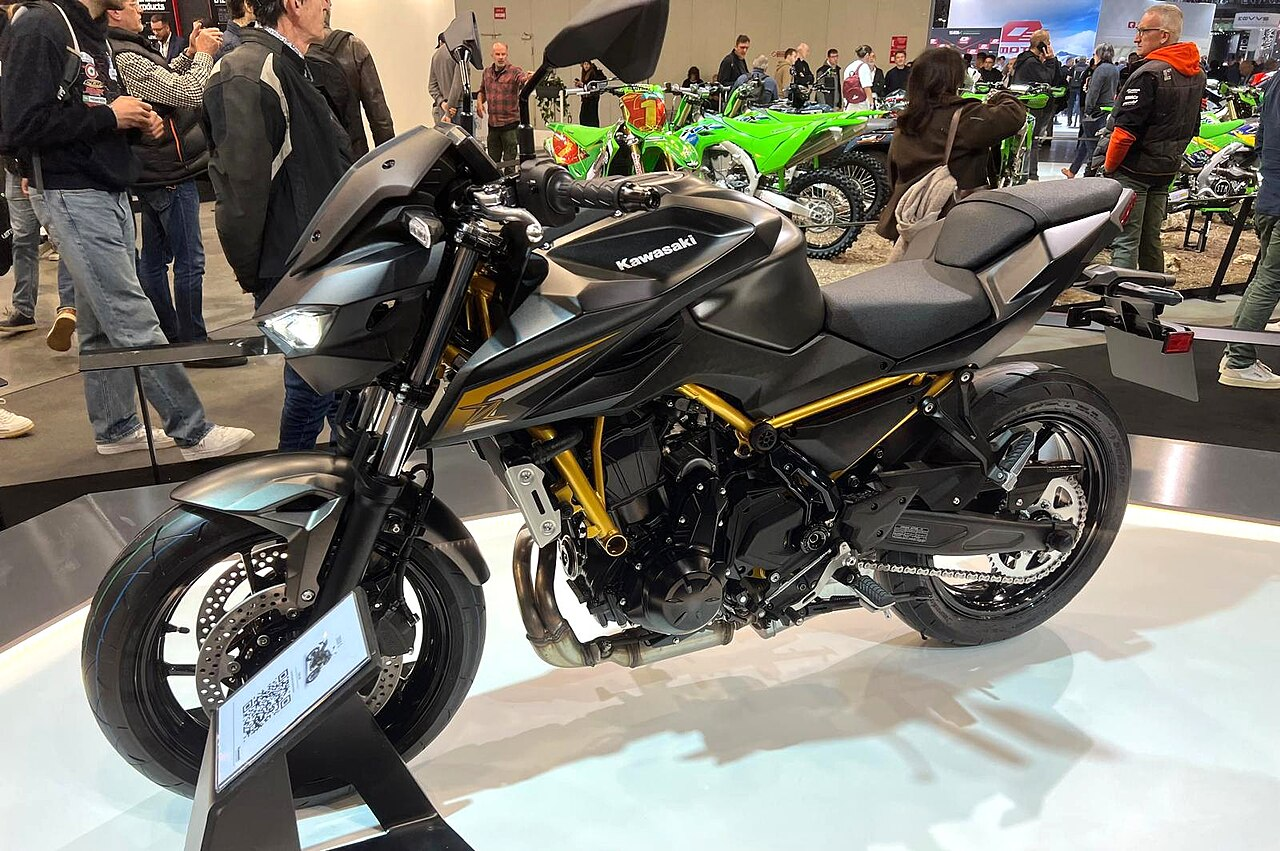
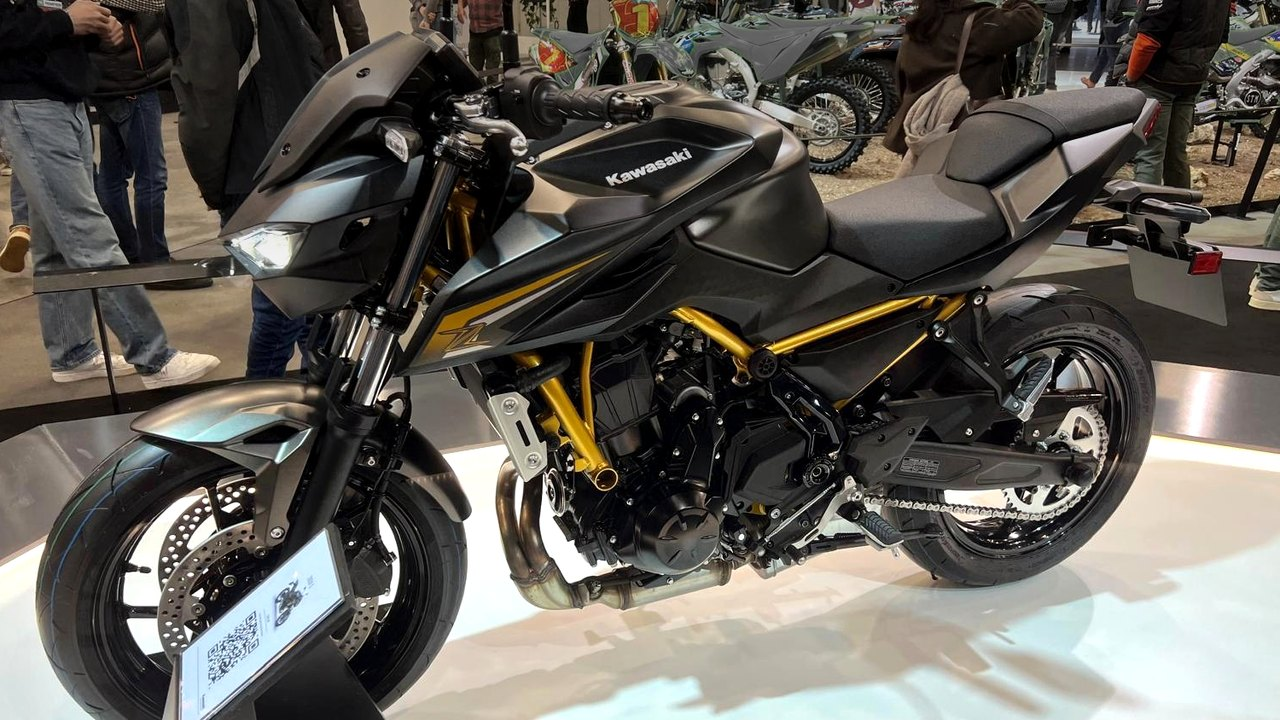
feat: foto piu' belle per Stelvio e Z650S
- Stelvio: nuova foto (Motor Verso, CC BY 2.0), grigia con pinze rosse,
  ritagliata 16:9.
- Z650S: inquadratura piu' stretta e sfondo della fiera attenuato.
- Crediti aggiornati in pagina e nel README.

diff --git a/index.html b/index.html
@@ -245,7 +245,7 @@ details.year > summary { padding: 13px 4px; flex-wrap: wrap; }
       <li><strong>Debito residuo</strong>: il capitale ancora da restituire, cioè la base di un'eventuale estinzione anticipata (spese escluse).</li>
       <li>Stelvio: gli interessi usano il tasso implicito nella rata di contratto (378,82 € su 96 mesi, TAN 8,01% arrotondato). Così il piano chiude a zero e gli interessi totali tornano a 9.577,30 €, come sul contratto. Se il 29 non esiste (febbraio), la rata scade l'ultimo giorno del mese.</li>
       <li>Z650S: TAN non indicato, quindi il debito è la somma delle rate (36 × 210 €).</li>
-      <li>Foto rappresentative da Wikimedia Commons, licenza CC BY-SA 4.0: Stelvio di <a href="https://commons.wikimedia.org/wiki/File:Alfa_Romeo_Stelvio_Wien_25_July_2020_JM_(2).jpg" target="_blank" rel="noopener">Johannes Maximilian</a>, Z650S di <a href="https://commons.wikimedia.org/wiki/File:Kawasaki_Z650S_2026.jpg" target="_blank" rel="noopener">MotorideSA</a>.</li>
+      <li>Foto rappresentative da Wikimedia Commons, ritagliate: Stelvio di <a href="https://commons.wikimedia.org/wiki/File:Alfa_Romeo_Stelvio_Suv_Free_Car_Picture_-_Give_Credit_Via_Link.jpg" target="_blank" rel="noopener">Motor Verso</a> (<a href="https://www.motorverso.com" target="_blank" rel="noopener">motorverso.com</a>, CC BY 2.0); Z650S di <a href="https://commons.wikimedia.org/wiki/File:Kawasaki_Z650S_2026.jpg" target="_blank" rel="noopener">MotorideSA</a> (CC BY-SA 4.0), con lo sfondo attenuato.</li>
     </ul>
   </footer>
 </div>
@@ -262,7 +262,7 @@ const FINANZIAMENTI = [
     finanziaria: 'Stellantis Financial Services',
     foto: 'img/stelvio.jpg',
     fotoAlt: 'Alfa Romeo Stelvio grigia con pinze freno rosse (foto rappresentativa)',
-    fotoPos: '50% 60%',
+    fotoPos: '50% 50%',
     colore: 'var(--stelvio)',
     capitale: 26789.42,
     tan: 8.01,
@@ -288,7 +288,7 @@ const FINANZIAMENTI = [
     finanziaria: null,
     foto: 'img/z650s.jpg',
     fotoAlt: 'Kawasaki Z650S nera con telaio oro (foto rappresentativa)',
-    fotoPos: '50% 55%',
+    fotoPos: '50% 50%',
     colore: 'var(--z650s)',
     capitale: null,
     tan: null,

diff --git a/README.md b/README.md
@@ -19,6 +19,7 @@ I finanziamenti sono nell'array `FINANZIAMENTI` in cima allo script di `index.ht
 
 ## Foto
 
-Foto rappresentative da Wikimedia Commons, licenza CC BY-SA 4.0:
-[Stelvio](https://commons.wikimedia.org/wiki/File:Alfa_Romeo_Stelvio_Wien_25_July_2020_JM_(2).jpg) di Johannes Maximilian,
-[Z650S](https://commons.wikimedia.org/wiki/File:Kawasaki_Z650S_2026.jpg) di MotorideSA.
+Foto rappresentative da Wikimedia Commons, ritagliate:
+
+- [Stelvio](https://commons.wikimedia.org/wiki/File:Alfa_Romeo_Stelvio_Suv_Free_Car_Picture_-_Give_Credit_Via_Link.jpg) di Motor Verso ([motorverso.com](https://www.motorverso.com)), CC BY 2.0.
+- [Z650S](https://commons.wikimedia.org/wiki/File:Kawasaki_Z650S_2026.jpg) di MotorideSA, CC BY-SA 4.0, con lo sfondo attenuato (stessa licenza).
